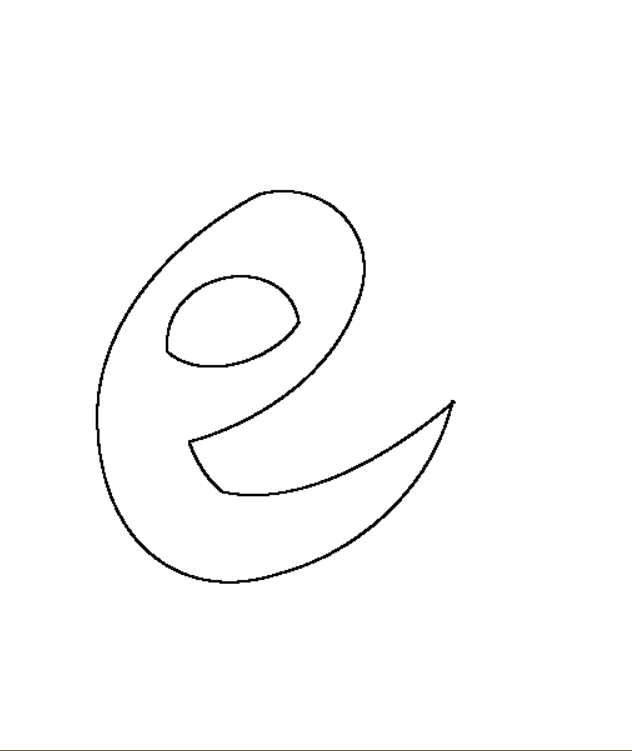
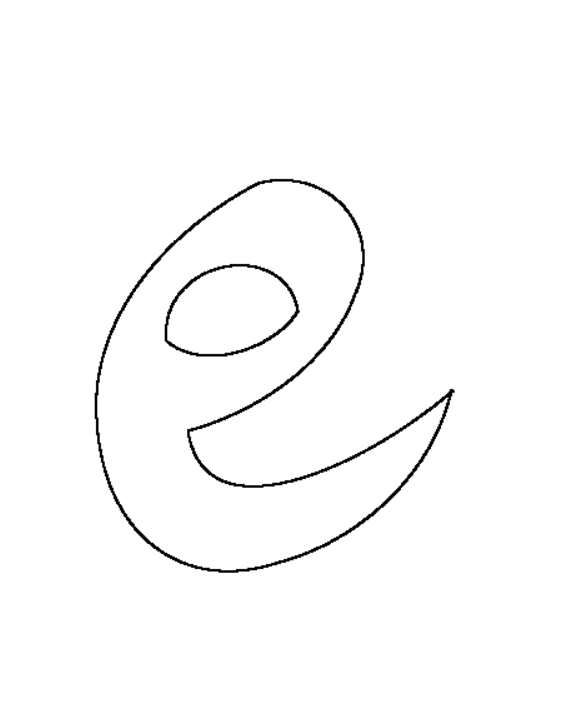
corrected m and ę

diff --git a/main.py b/main.py
@@ -69,7 +69,7 @@ text5 = smallfont.render('Edycja On ', True, BLACK)
 text6 = smallfont.render('Edycja Off', True, BLACK)
 text7 = smallfont.render('Wyswietl litere', True, BLACK)
 
-letter_img = pygame.image.load('letters_raw_extracted/ź.png')
+letter_img = pygame.image.load('letters_raw_extracted/ę.png')
 
 # Main game loop
 running = True
@@ -84,9 +84,8 @@ current_curve_id = 0
 prev_edited_curve_id = None
 
 # read curves from file
-f = open('letters_json/z.json')
+f = open('letters_json/ę.json')
 all_curves = json.load(f)
-all_curves.pop(-1)
 current_curve_id = len(all_curves) - 1
 prev_edited_curve_id = len(all_curves) - 2
 
@@ -132,7 +131,7 @@ while running:
             elif event.button == 1 and 95 <= mouse[0] <= 170 and 10 <= mouse[1] <= 50:  # kliknieto "siatka"
                 draw_grid = not draw_grid
             elif event.button == 1 and 10 <= mouse[0] <= 85 and 60 <= mouse[1] <= 100:  # kliknieto "zapisz"
-                with open('ź.json', 'w', encoding='utf-8') as f:
+                with open('ę.json', 'w', encoding='utf-8') as f:
                     json.dump(all_curves, f, ensure_ascii=False, indent=4)
             elif event.button == 1 and 95 <= mouse[0] <= 170 and 60 <= mouse[1] <= 100:  # kliknieto "zmien prosta"
                 edit = True
